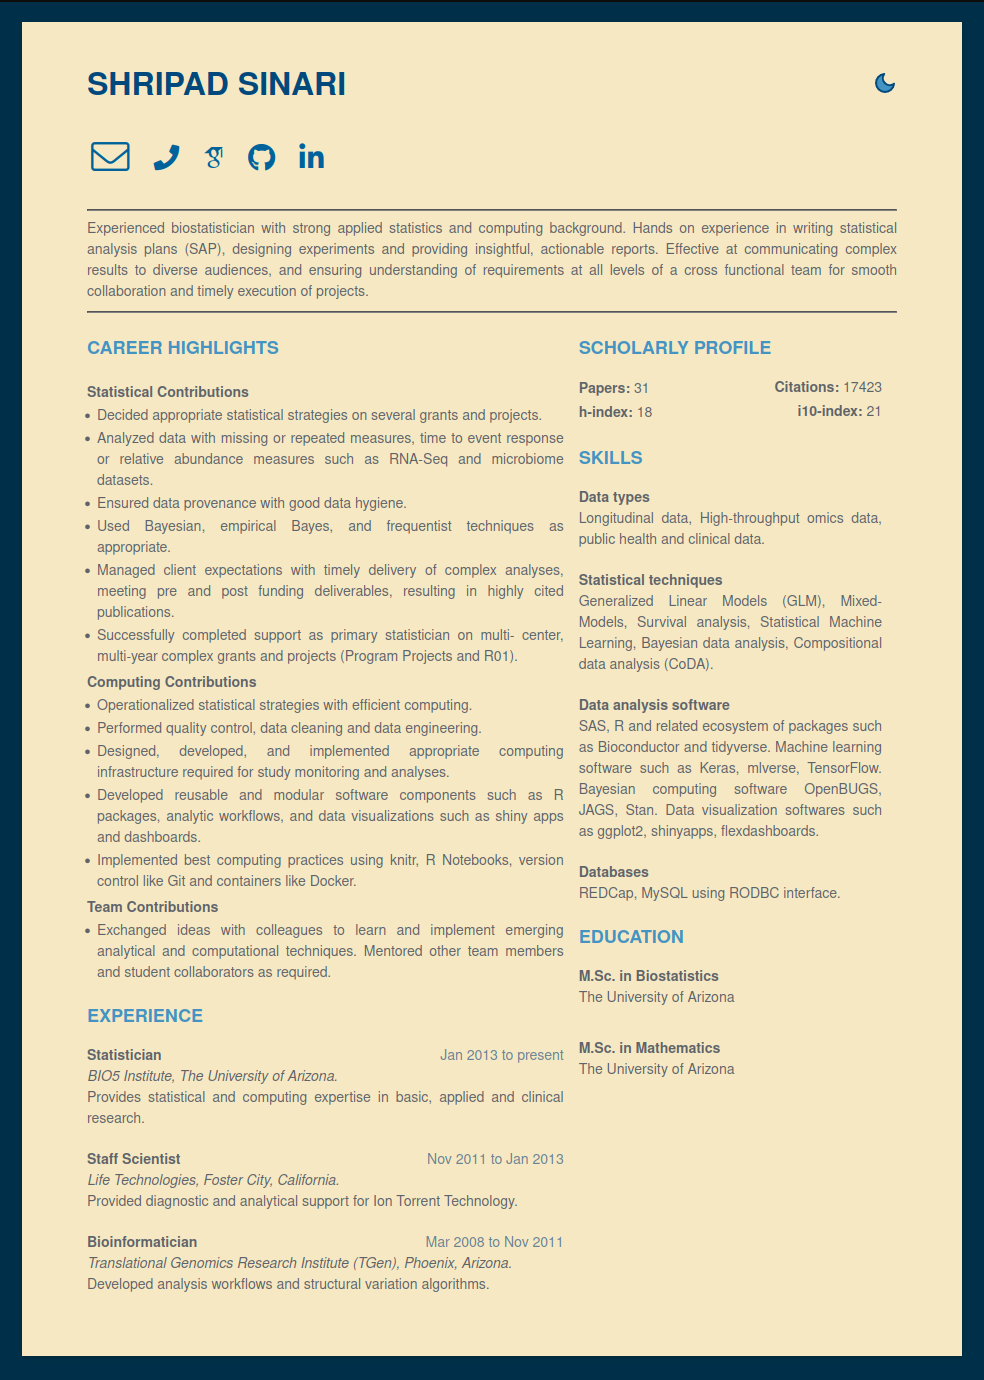
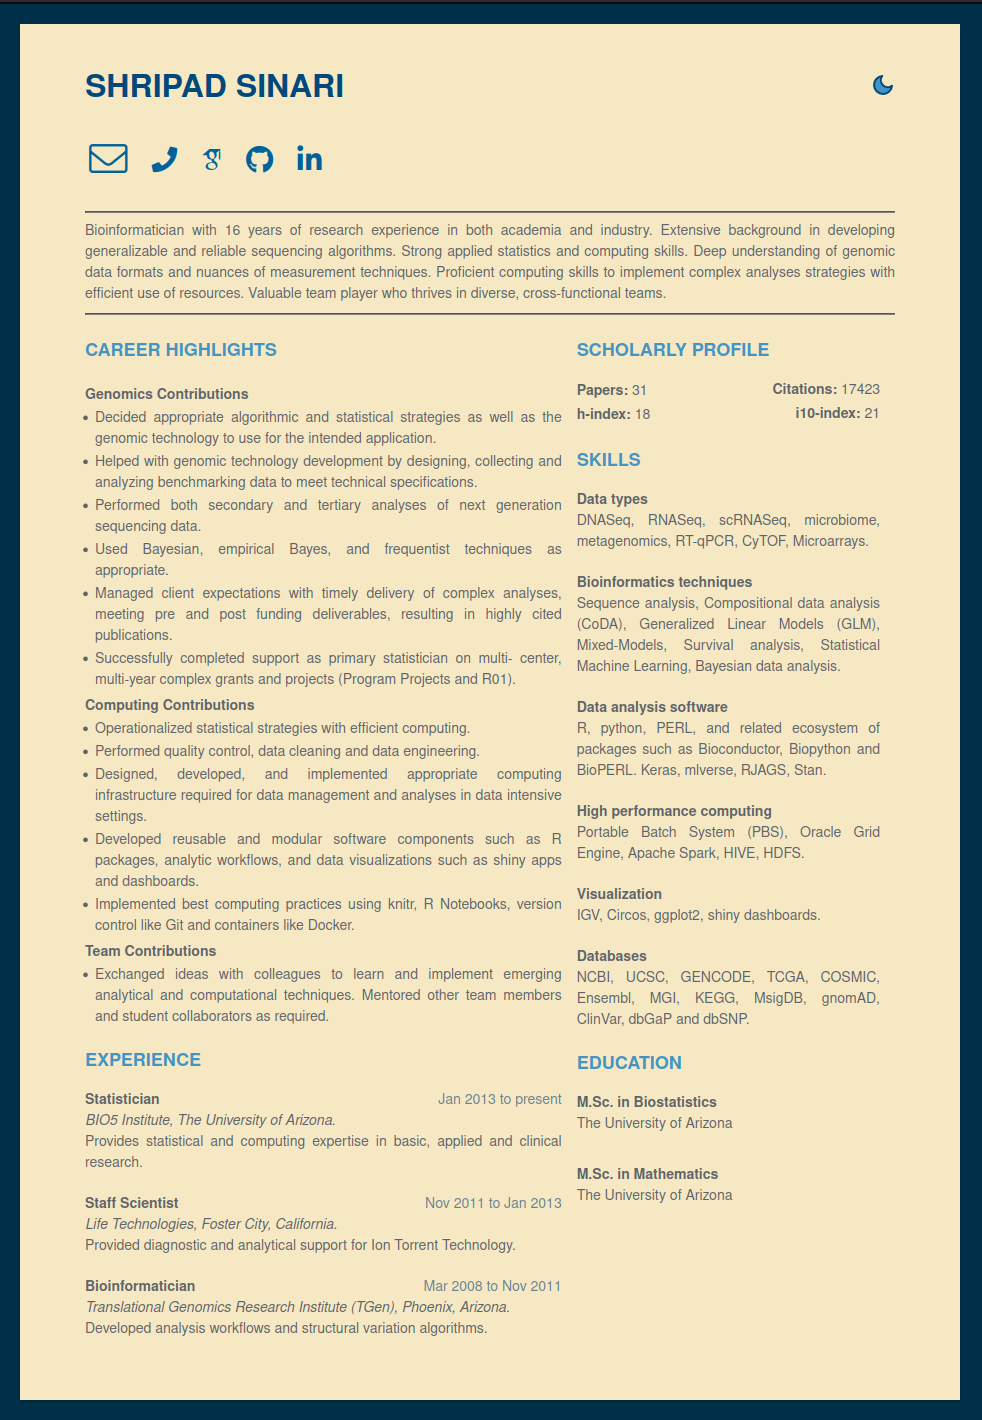
updated data to match the correct information.

Changed region(s): [[0.0305, 0.1558, 0.9776, 0.9971], [0.0, 0.0, 0.9776, 0.1246]]

diff --git a/_site/index.html b/_site/index.html
@@ -15,7 +15,7 @@
     <!-- Favicon -->
     <link rel="shortcut icon" href="favicon.ico">
     
-    <title>Biostatistician | Shripad Sinari</title>
+    <title>Bioinformatician | Shripad Sinari</title>
 </head>
 
 <body>
@@ -114,11 +114,13 @@
 <section class="career-profile">
   <!-- <h2 class="title">Career Profile</h2>-->
   <hr>
-  <div class="details">Experienced biostatistician with strong applied statistics and computing background. 
-Hands on experience in writing statistical analysis plans (SAP), designing experiments 
-and providing insightful, actionable reports. Effective at communicating complex results 
-to diverse audiences, and ensuring understanding of requirements at all levels of 
-a cross functional team for smooth collaboration and timely execution of projects.
+  <div class="details">Bioinformatician with 16 years of research experience in both academia and
+industry. Extensive background in developing generalizable and reliable
+sequencing algorithms. Strong applied statistics and computing skills. Deep
+understanding of genomic data formats and nuances of measurement techniques.
+Proficient computing skills to implement complex analyses strategies with
+efficient use of resources. Valuable team player who thrives in diverse,
+cross-functional teams.
 </div>
   <hr>
 </section>
@@ -132,14 +134,14 @@ a cross functional team for smooth collaboration and timely execution of project
   <div class="title">Career Highlights</div>
   
   <div class="highlights-item">
-    <div class="contribution">Statistical Contributions
+    <div class="contribution">Genomics Contributions
       <ul class="item">
 	
-	<li> Decided appropriate statistical strategies on several grants and projects.  </li>
+	<li> Decided appropriate algorithmic and statistical strategies as well as the genomic technology to use for the intended application.  </li>
 	
-	<li> Analyzed data with missing or repeated measures, time to event response or relative abundance measures such as RNA-Seq and microbiome datasets.  </li>
+	<li> Helped with genomic technology development by designing, collecting and analyzing benchmarking data to meet technical specifications.  </li>
 	
-	<li> Ensured data provenance with good data hygiene.  </li>
+	<li> Performed both secondary and tertiary analyses of next generation sequencing data.  </li>
 	
 	<li> Used Bayesian, empirical Bayes, and frequentist techniques as appropriate.  </li>
 	
@@ -159,7 +161,7 @@ a cross functional team for smooth collaboration and timely execution of project
 	
 	<li> Performed quality control, data cleaning and data engineering.  </li>
 	
-	<li> Designed, developed, and implemented appropriate computing infrastructure required for study monitoring and analyses.  </li>
+	<li> Designed, developed, and implemented appropriate computing infrastructure required for data management and analyses in data intensive settings.  </li>
 	
 	<li> Developed reusable and modular software components such as R packages, analytic workflows, and data visualizations such as shiny apps and dashboards.  </li>
 	
@@ -281,22 +283,28 @@ a cross functional team for smooth collaboration and timely execution of project
        <div class="skills-item">
           <div class="category">Data types</div>
           <div class="skill">
-            Longitudinal data,
-High-throughput omics data,
-public health and clinical data.
+            DNASeq,
+RNASeq,
+scRNASeq,
+microbiome,
+metagenomics,
+RT-qPCR,
+CyTOF,
+Microarrays.
 
 	  </div>
        </div>
     
        <div class="skills-item">
-          <div class="category">Statistical techniques</div>
+          <div class="category">Bioinformatics techniques</div>
           <div class="skill">
-            Generalized Linear Models (GLM),
+            Sequence analysis,
+Compositional data analysis (CoDA),
+Generalized Linear Models (GLM),
 Mixed-Models,
 Survival analysis,
 Statistical Machine Learning,
-Bayesian data analysis,
-Compositional data analysis (CoDA).
+Bayesian data analysis.
 
 	  </div>
        </div>
@@ -304,11 +312,40 @@ Compositional data analysis (CoDA).
        <div class="skills-item">
           <div class="category">Data analysis software</div>
           <div class="skill">
-            SAS,
-R and related ecosystem of packages such as Bioconductor and tidyverse.
-Machine learning software such as Keras, mlverse, TensorFlow.
-Bayesian computing software OpenBUGS, JAGS, Stan.
-Data visualization softwares such as ggplot2, shinyapps, flexdashboards.
+            R,
+python,
+PERL,
+and related ecosystem of packages such as
+Bioconductor,
+Biopython and
+BioPERL.
+Keras,
+mlverse,
+RJAGS,
+Stan.
+
+	  </div>
+       </div>
+    
+       <div class="skills-item">
+          <div class="category">High performance computing</div>
+          <div class="skill">
+            Portable Batch System (PBS),
+Oracle Grid Engine,
+Apache Spark,
+HIVE,
+HDFS.
+
+	  </div>
+       </div>
+    
+       <div class="skills-item">
+          <div class="category">Visualization</div>
+          <div class="skill">
+            IGV,
+Circos,
+ggplot2,
+shiny dashboards.
 
 	  </div>
        </div>
@@ -316,8 +353,19 @@ Data visualization softwares such as ggplot2, shinyapps, flexdashboards.
        <div class="skills-item">
           <div class="category">Databases</div>
           <div class="skill">
-            REDCap,
-MySQL using RODBC interface.
+            NCBI,
+UCSC,
+GENCODE,
+TCGA,
+COSMIC,
+Ensembl,
+MGI,
+KEGG,
+MsigDB,
+gnomAD,
+ClinVar,
+dbGaP and
+dbSNP.
 
 	  </div>
        </div>
